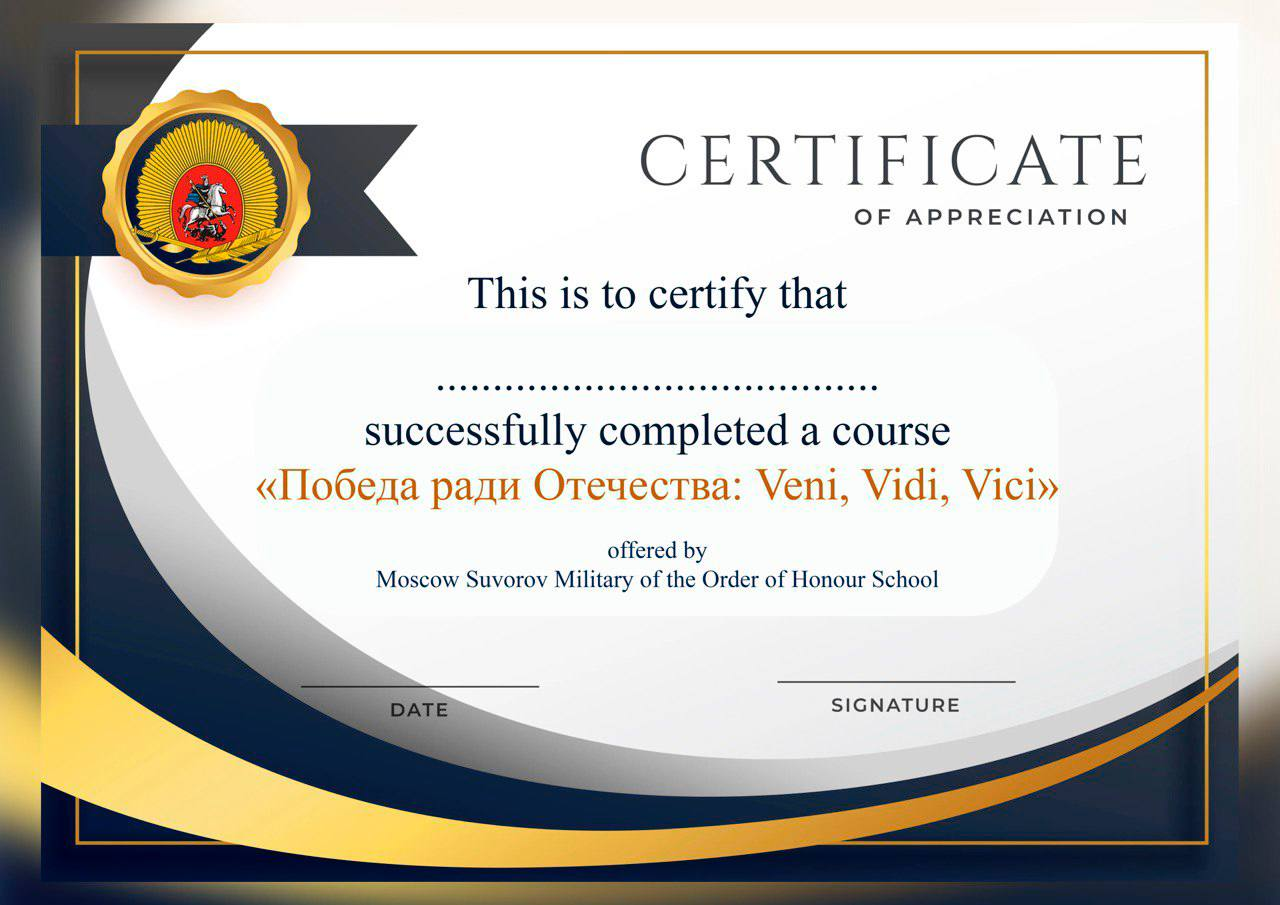
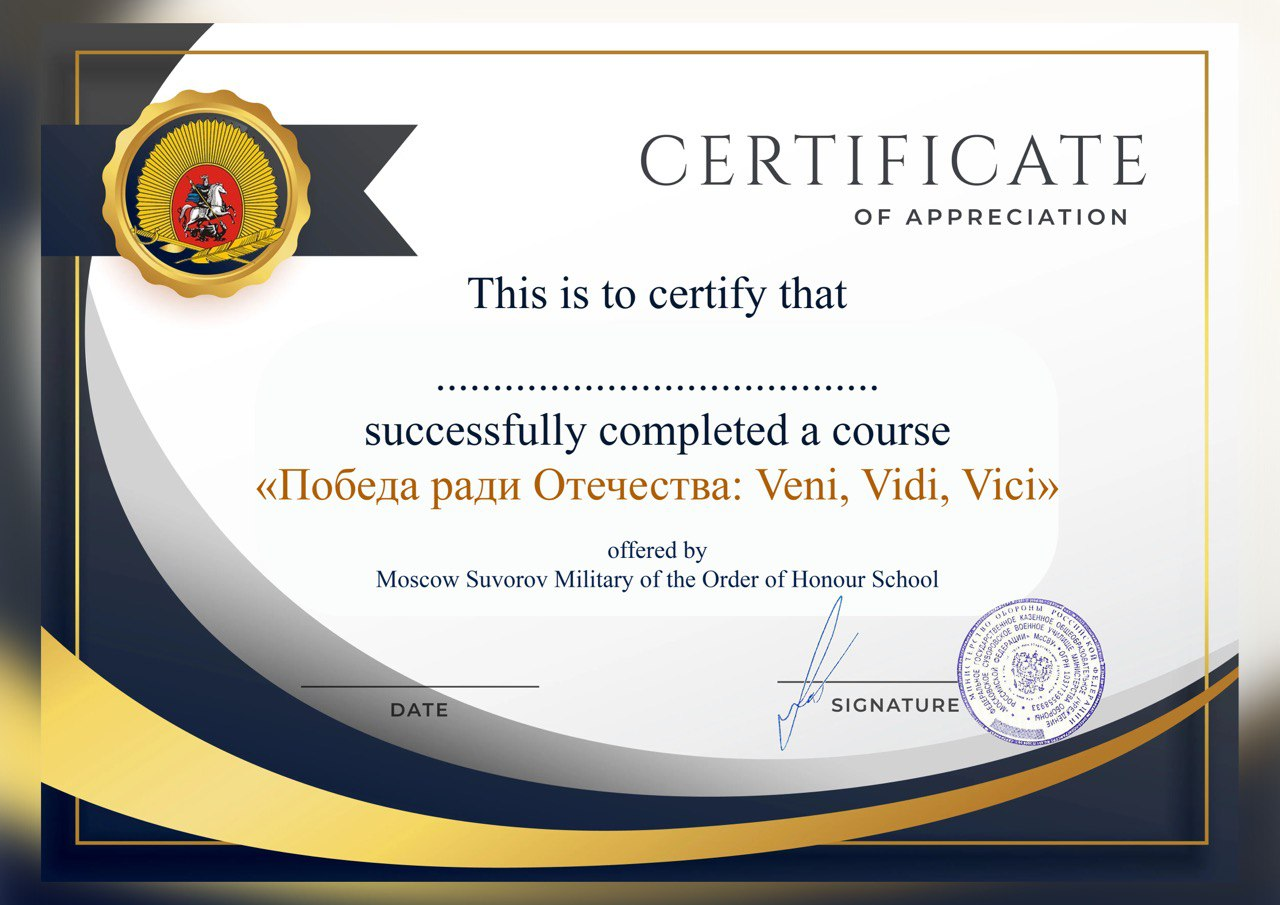
добавлен новый сертификат и исправлен вывод ошибок клиенту

diff --git a/сайт/app.py b/сайт/app.py
@@ -208,7 +208,8 @@ def index():
         return render_template('index.html', topics=topics)
 
     except Exception as e:
-        return jsonify({'status': 'error', 'message': f'произошла ошибка {str(e)}'}), 500
+        print(str(e))
+        return jsonify({'status': 'error', 'message': 'произошла ошибка'}), 500
 
     finally:
         if 'cursor' in locals() and cursor:
@@ -245,7 +246,8 @@ ORDER BY
         return render_template('leaderboard.html', leaderboard=leaderboard)
 
     except Exception as e:
-        return jsonify({'status': 'error', 'message': f'произошла ошибка {str(e)}'}), 500
+        print(str(e))
+        return jsonify({'status': 'error', 'message': 'Произошла ошибка'}), 500
 
     finally:
         if 'cursor' in locals() and cursor:
@@ -281,7 +283,8 @@ def login():
             return jsonify({'status': 'error', 'message': 'неверный логин или пароль'}), 401
 
         except Exception as e:
-            return jsonify({'status': 'error', 'message': f'произошла ошибка {str(e)}'}), 500
+            print(str(e))
+            return jsonify({'status': 'error', 'message': 'Произошла ошибка'}), 500
 
         finally:
             if 'cursor' in locals() and cursor:
@@ -316,7 +319,8 @@ def register():
             return jsonify({'status': 'success', 'message': 'Участник зарегистрирован', "last_id": user_id}), 200
 
         except Exception as e:
-            return jsonify({'status': 'error', 'message': f'произошла ошибка {str(e)}'}), 500
+            print(str(e))
+            return jsonify({'status': 'error', 'message': 'Произошла ошибка'}), 500
 
         finally:
             if 'cursor' in locals() and cursor:
@@ -369,7 +373,8 @@ ORDER BY
         return render_template('personal.html', user=user_information, words=words_information, score=score)
 
     except Exception as e:
-        return jsonify({'status': 'error', 'message': f'произошла ошибка {str(e)}'}), 500
+        print(str(e))
+        return jsonify({'status': 'error', 'message': 'Произошла ошибка'}), 500
 
     finally:
         if 'cursor' in locals() and cursor:
@@ -401,7 +406,8 @@ def edit_note():
             return jsonify({'status': 'success', 'message': 'блокнот изменён'}), 200
 
     except Exception as e:
-        return jsonify({'status': 'error', 'message': f'произошла ошибка {str(e)}'}), 500
+        print(str(e))
+        return jsonify({'status': 'error', 'message': f'Произошла ошибка'}), 500
 
     finally:
         if 'cursor' in locals() and cursor:
@@ -467,7 +473,8 @@ def edit_word(id_word):
 
 
     except Exception as e:
-        return jsonify({'status': 'error', 'message': f'произошла ошибка {str(e)}'}), 500
+        print(str(e))
+        return jsonify({'status': 'error', 'message': 'Произошла ошибка'}), 500
 
     finally:
         if 'cursor' in locals() and cursor:
@@ -584,7 +591,8 @@ def section_result(id_section):
                 return render_template('section_result.html', section=section_data, is_final = is_final)
 
     except Exception as e:
-        return jsonify({'status': 'error', 'message': f'Произошла ошибка: {str(e)}'}), 500
+        print(str(e))
+        return jsonify({'status': 'error', 'message': f'Произошла ошибка'}), 500
 
 @app.route('/get_sertificate', methods=['GET'])
 @is_id()
@@ -604,8 +612,9 @@ def get_sertificate():
         else:
             return jsonify({'status': 'error', 'message': 'Итоговый тест не пройден'}), 403
 
-    except Exception as err:
-        return jsonify({'status': 'error', 'message': f'произошла ошибка {str(err)}'}), 500
+    except Exception as e:
+        print(str(e))
+        return jsonify({'status': 'error', 'message': 'Произошла ошибка'}), 500
 
     finally:
         if 'cursor' in locals() and cursor:
@@ -759,7 +768,8 @@ def section(id_section):
         return render_template('section.html', section=section_data)
 
     except Exception as e:
-        return jsonify({'status': 'error', 'message': f'произошла ошибка {str(e)}'}), 500
+        print(str(e))
+        return jsonify({'status': 'error', 'message': 'Произошла ошибка'}), 500
 
     finally:
         if 'cursor' in locals() and cursor:
